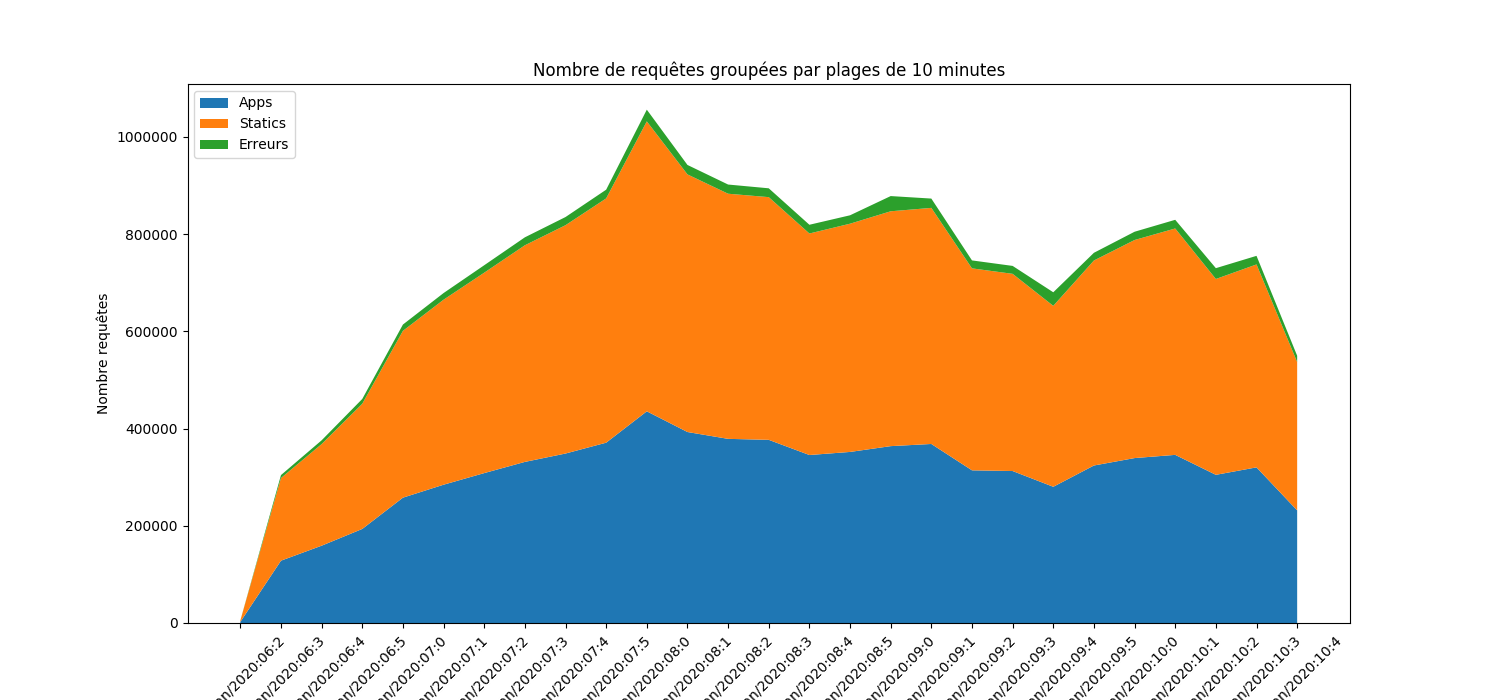
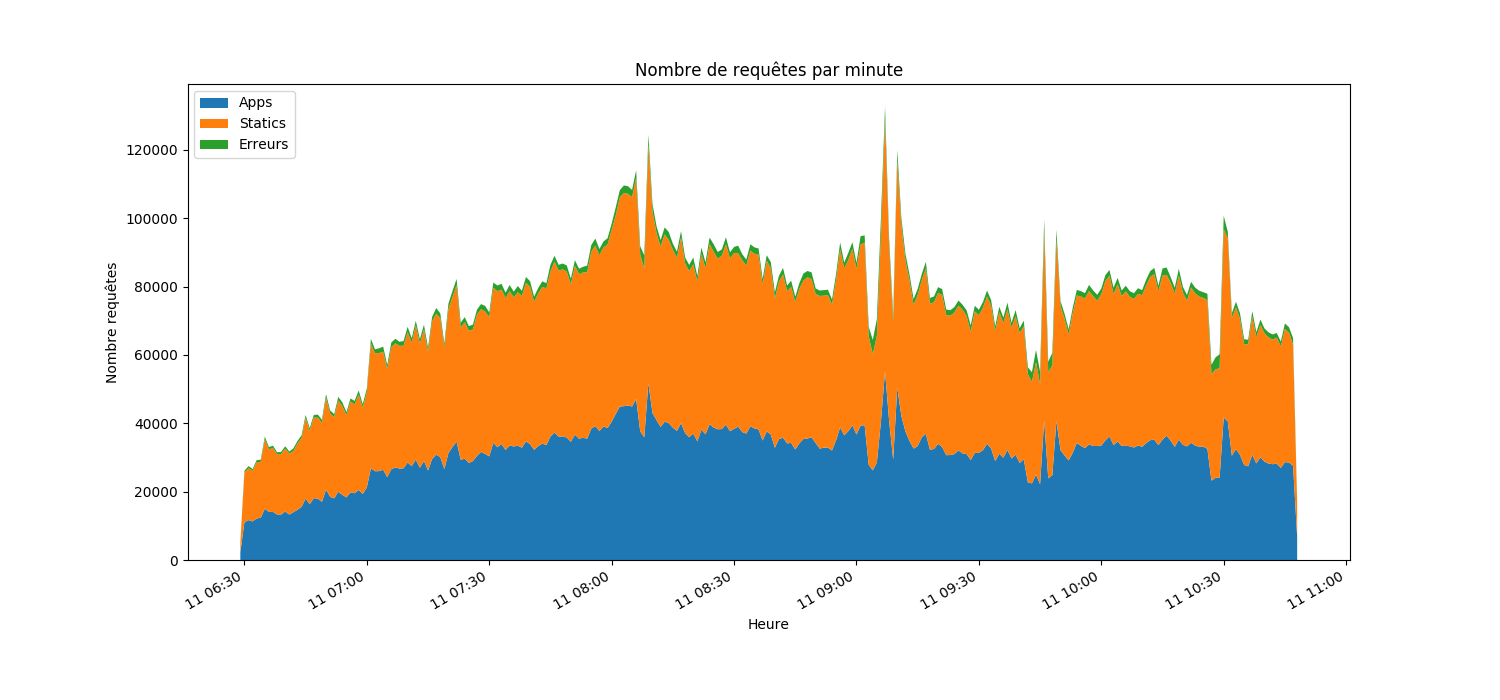
group by minute instead of ten minutes

diff --git a/dfchart/viz.py b/dfchart/viz.py
@@ -5,43 +5,47 @@ import pandas as pd
 import matplotlib
 matplotlib.use('Agg')
 import matplotlib.pyplot as plt
+from pandas.plotting import register_matplotlib_converters
 
 def generate_charts(ranges):
     # create pandas dataframe
     df = pd.DataFrame(ranges).transpose()
+
+    # datetime from string date
+    df['datetime'] = pd.to_datetime(df.index, format='%d/%b/%Y:%H:%M', utc=False)
 
     # calculate means values
     df['static_rt_mean'] = df['static_rt_sum'] / df['static_count']
     df['upstream_rt_mean'] = df['upstream_rt_sum'] / df['upstream_count']
     df['err_rt_mean'] = df['err_rt_sum'] / df['err_count']
 
-
-    df2 = df.reset_index()
+    # prevent deprecation warning for implicit date convertion
+    register_matplotlib_converters()
 
     # création du graphique du nombre de requêtes
     fig, ax = plt.subplots(figsize=(15,7))
-    ax.set_title("Nombre de requêtes groupées par plages de 10 minutes")
+    ax.set_title("Nombre de requêtes par minute")
     ax.set_xlabel("Heure")
     ax.set_ylabel("Nombre requêtes")
-    for tick in ax.get_xticklabels():
-        tick.set_rotation(45)
 
-    ax.stackplot(df2['index'], df2['upstream_count'], df2['static_count'], df2['err_count'], labels=('Apps','Statics','Erreurs'))
+    fig.autofmt_xdate()
+
+    ax.stackplot(df['datetime'], df['upstream_count'], df['static_count'], df['err_count'], labels=('Apps','Statics','Erreurs'))
 
     plt.legend(loc=2)
     fig.savefig('/tmp/nb_requests.png')
 
     # création du graphique de la moyenne des temps de réponses
     fig, ax = plt.subplots(figsize=(15,5))
-    ax.set_title("Temps de réponse moyen par plages de 10 minutes")
+    ax.set_title("Temps de réponse moyen par minute")
     ax.set_xlabel("Heure")
     ax.set_ylabel("Temps de réponse (en secondes)")
-    for tick in ax.get_xticklabels():
-        tick.set_rotation(45)
 
-    ax.plot(df2['index'], df2['upstream_rt_mean'], label='Apps')
-    ax.plot(df2['index'], df2['static_rt_mean'], label='Statics')
-    ax.plot(df2['index'], df2['err_rt_mean'], label='Erreurs')
+    fig.autofmt_xdate()
+
+    ax.plot(df['datetime'], df['upstream_rt_mean'], label='Apps')
+    ax.plot(df['datetime'], df['static_rt_mean'], label='Statics')
+    ax.plot(df['datetime'], df['err_rt_mean'], label='Erreurs')
 
     plt.legend(loc=2)
     fig.savefig('/tmp/rt_requests.png')

diff --git a/analyse-logs-fullpy.py b/analyse-logs-fullpy.py
@@ -11,7 +11,7 @@ def parse_lines(f, ranges):
         idx = line.index('[') + 1
         rtidx = line.index('"rt=') + 4
         statusidx = line.index('" ') + 2
-        curr_range = line[idx:idx+16]
+        curr_range = line[idx:idx+17]
         if not(curr_range in ranges):
             ranges[curr_range] = { 'upstream_count' : 0, 'upstream_rt_sum' : 0.0, 'static_count' : 0, 'static_rt_sum' : 0.0, 'err_count' : 0, 'err_rt_sum' : 0.0 }
         r = ranges[curr_range]

diff --git a/analyse-logs-regex.py b/analyse-logs-regex.py
@@ -13,7 +13,7 @@ def parse_lines(f, ranges):
     while line:
         m = pattern.match(line)
         if m:
-            curr_range = m.group(1)[0:16]
+            curr_range = m.group(1)[0:17]
             if not(curr_range in ranges):
                 ranges[curr_range] = { 'upstream_count' : 0, 'upstream_rt_sum' : 0.0, 'static_count' : 0, 'static_rt_sum' : 0.0, 'err_count' : 0, 'err_rt_sum' : 0.0 }
             r = ranges[curr_range]

diff --git a/c/parse.h b/c/parse.h
@@ -8,7 +8,7 @@
 #include "ranges.h"
 
 #define BUFF_LENGTH 4096
-#define DATE_RANGE_LENGTH 16
+#define DATE_RANGE_LENGTH 17
 #define ERROR_CODE_LIMIT 399
 
 PyObject * parse(PyObject *self, PyObject *args);

diff --git a/README.md b/README.md
@@ -17,7 +17,7 @@ df = pd.read_csv('logs/access.log',
         header=None)
 ```
 
-Nous cherchons à visualiser le nombre de requêtes (applicatives, fichiers statiques et en erreurs) et le temps de réponse moyen. Nous allons faire une aggrégation des requêtes par tranches de dix minutes et les stocker dans un dictionnaire python qui pourra être chargé dans un DataFrame Pandas.
+Nous cherchons à visualiser le nombre de requêtes (applicatives, fichiers statiques et en erreurs) et le temps de réponse moyen. Nous allons faire une aggrégation des requêtes par tranches d'une minute et les stocker dans un dictionnaire python qui pourra être chargé dans un DataFrame Pandas.
 
 Installation
 ------------
@@ -33,12 +33,12 @@ Execution
 ---------
 
 ```bash
-time python analyse-logs-fullpy.py
-time python analyse-logs-regex.py
+time python analyse-logs-fullpy.py logs/access.log.gz
+time python analyse-logs-regex.py  logs/access.log.gz
 cd c
 make
 cd ..
-time python analyse-logs-c.py
+time python analyse-logs-c.py  logs/access.log.gz
 ```
 
 Temps d'executions
@@ -48,17 +48,17 @@ Temps d'executions
 
 | Version | Real | User | Sys |
 |---------|------|------|-----|
-| python seul | 0m59.501s | 0m56.596s | 0m2.996s |
-| python regex | 2m3.489s | 2m0.864s | 0m3.208s |
-| python + extension C pour le parsing des logs | 0m11.470s | 0m7.168s | 0m3.292s |
+| python seul | 0m50.854s | 0m48.464s | 0m3.296s |
+| python regex | 1m51.732s | 1m49.416s | 0m3.044s |
+| python + extension C pour le parsing des logs | 0m13.125s | 0m8.208s | 0m3.496s |
 
 ### Fichier gzip
 
 | Version | Real | User | Sys |
 |---------|------|------|-----|
-| python seul | 1m32.350s | 1m32.392s | 0m1.308s |
-| python regex | 2m54.655s | 2m54.508s | 0m1.352s |
-| python + extension C pour le parsing des logs | 0m17.284s | 0m17.568s | 0m0.968s |
+| python seul | 1m9.016s | 1m9.088s | 0m1.256s |
+| python regex | 2m11.410s | 2m11.484s | 0m1.396s |
+| python + extension C pour le parsing des logs | 0m17.375s | 0m17.380s | 0m1.280s |
 
 Résultat
 --------
